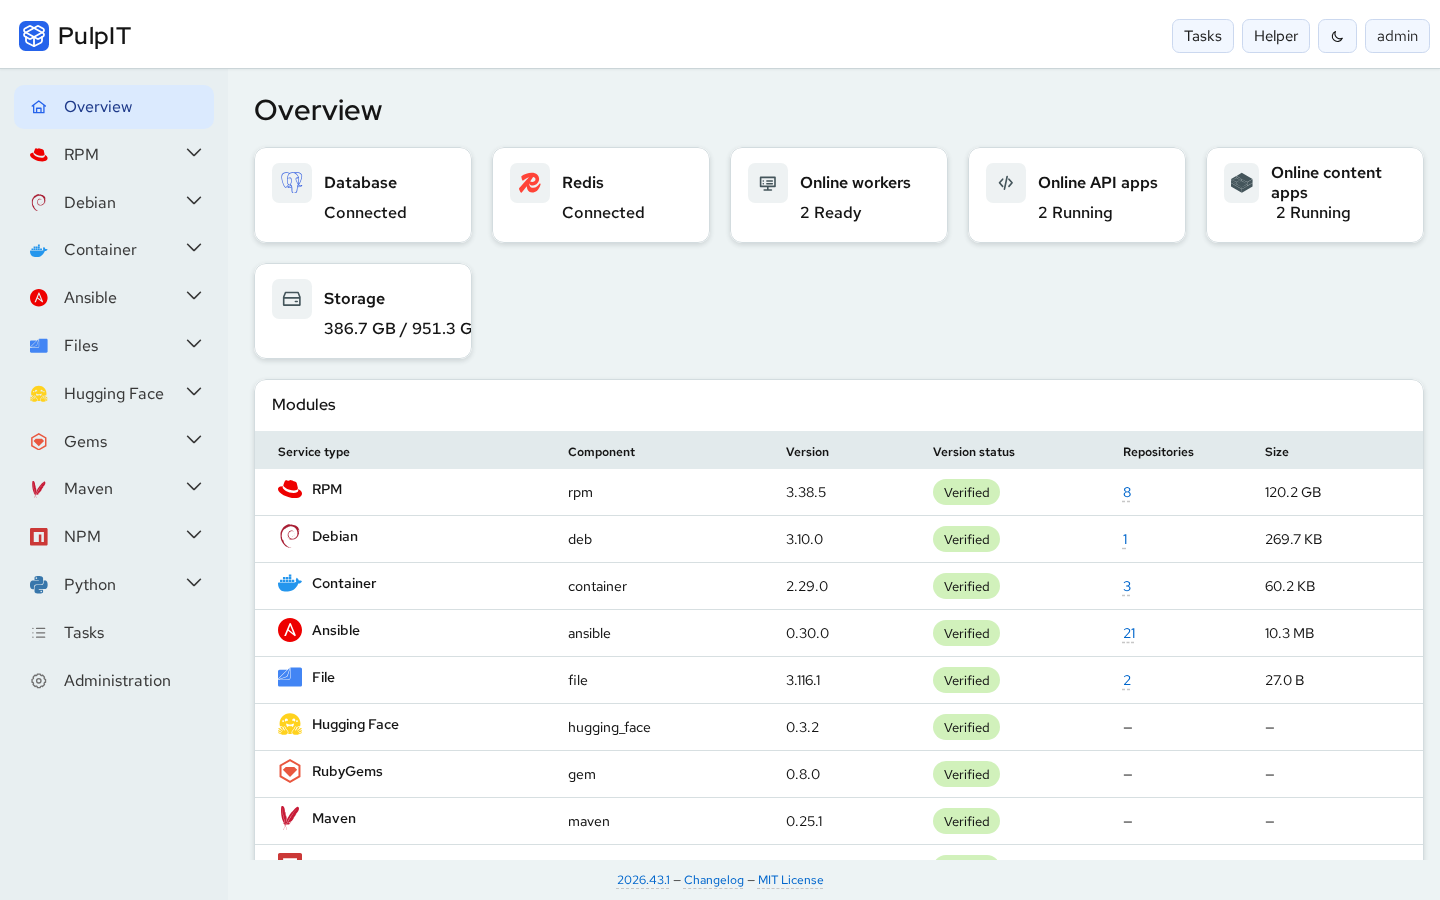
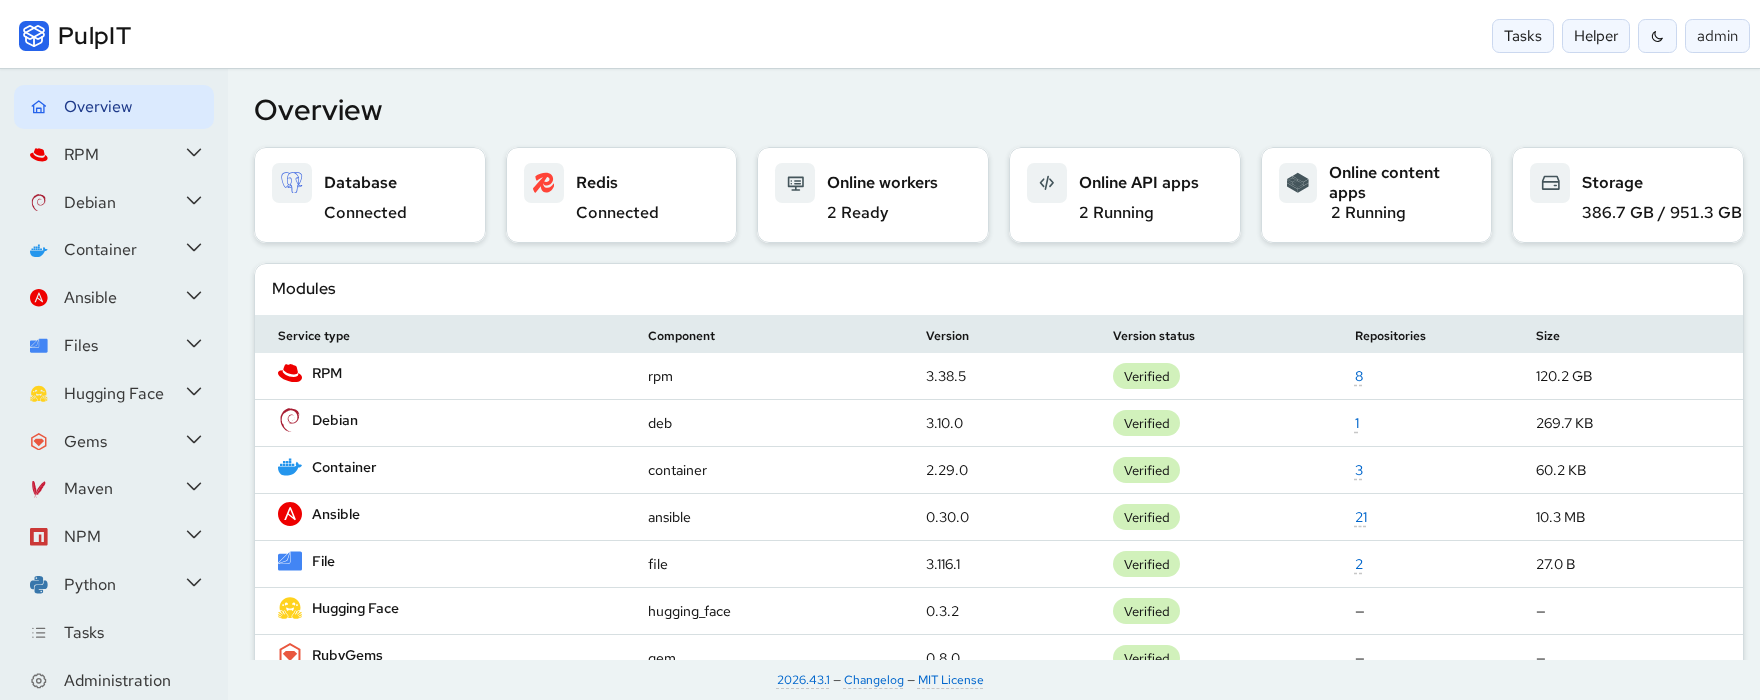
docs(site): capture screenshots at desktop width so the layout isn't cramped

diff --git a/docs/index.html b/docs/index.html
@@ -59,8 +59,8 @@
         <a class="shot" href="screenshots/overview.png" data-preview>
           <img
             src="screenshots/overview.png"
-            width="1440"
-            height="900"
+            width="1760"
+            height="700"
             alt="Pulpit's Overview page: Pulp service health cards and a table of installed plugin modules with versions, repository counts and sizes."
           />
         </a>
@@ -148,8 +148,8 @@
               <a class="shot" href="screenshots/rpm-repositories.png" data-preview>
                 <img
                   src="screenshots/rpm-repositories.png"
-                  width="1440"
-                  height="900"
+                  width="1760"
+                  height="700"
                   loading="lazy"
                   alt="The RPM repositories list, filtered by name, with Sync and a row menu."
                 />
@@ -165,8 +165,8 @@
               <a class="shot" href="screenshots/rpm-versions.png" data-preview>
                 <img
                   src="screenshots/rpm-versions.png"
-                  width="1440"
-                  height="900"
+                  width="1760"
+                  height="700"
                   loading="lazy"
                   alt="A repository's Versions tab, with the current version in bold and a Copy to action."
                 />
@@ -182,8 +182,8 @@
               <a class="shot" href="screenshots/rpm-distributions.png" data-preview>
                 <img
                   src="screenshots/rpm-distributions.png"
-                  width="1440"
-                  height="900"
+                  width="1760"
+                  height="700"
                   loading="lazy"
                   alt="A repository's Distributions tab listing each distribution with its ready-to-copy dnf repo configuration."
                 />
@@ -199,8 +199,8 @@
               <a class="shot" href="screenshots/containers.png" data-preview>
                 <img
                   src="screenshots/containers.png"
-                  width="1440"
-                  height="900"
+                  width="1760"
+                  height="700"
                   loading="lazy"
                   alt="A container repository's Overview tab with its tag, blob and manifest counts and size."
                 />
@@ -216,8 +216,8 @@
               <a class="shot" href="screenshots/admin-signing.png" data-preview>
                 <img
                   src="screenshots/admin-signing.png"
-                  width="1440"
-                  height="900"
+                  width="1760"
+                  height="700"
                   loading="lazy"
                   alt="Administration, Repository Signing: signing switches, public key filename, and the table of signing keys."
                 />
@@ -233,8 +233,8 @@
               <a class="shot" href="screenshots/versions-dark.png" data-preview>
                 <img
                   src="screenshots/versions-dark.png"
-                  width="1440"
-                  height="900"
+                  width="1760"
+                  height="700"
                   loading="lazy"
                   alt="The Versions tab in the dark theme."
                 />

diff --git a/docs/styles.css b/docs/styles.css
@@ -242,7 +242,7 @@ h1 {
 
 .hero .shot {
   margin-inline: auto;
-  max-width: 62rem;
+  max-width: 100%;
 }
 
 /* Sections */
